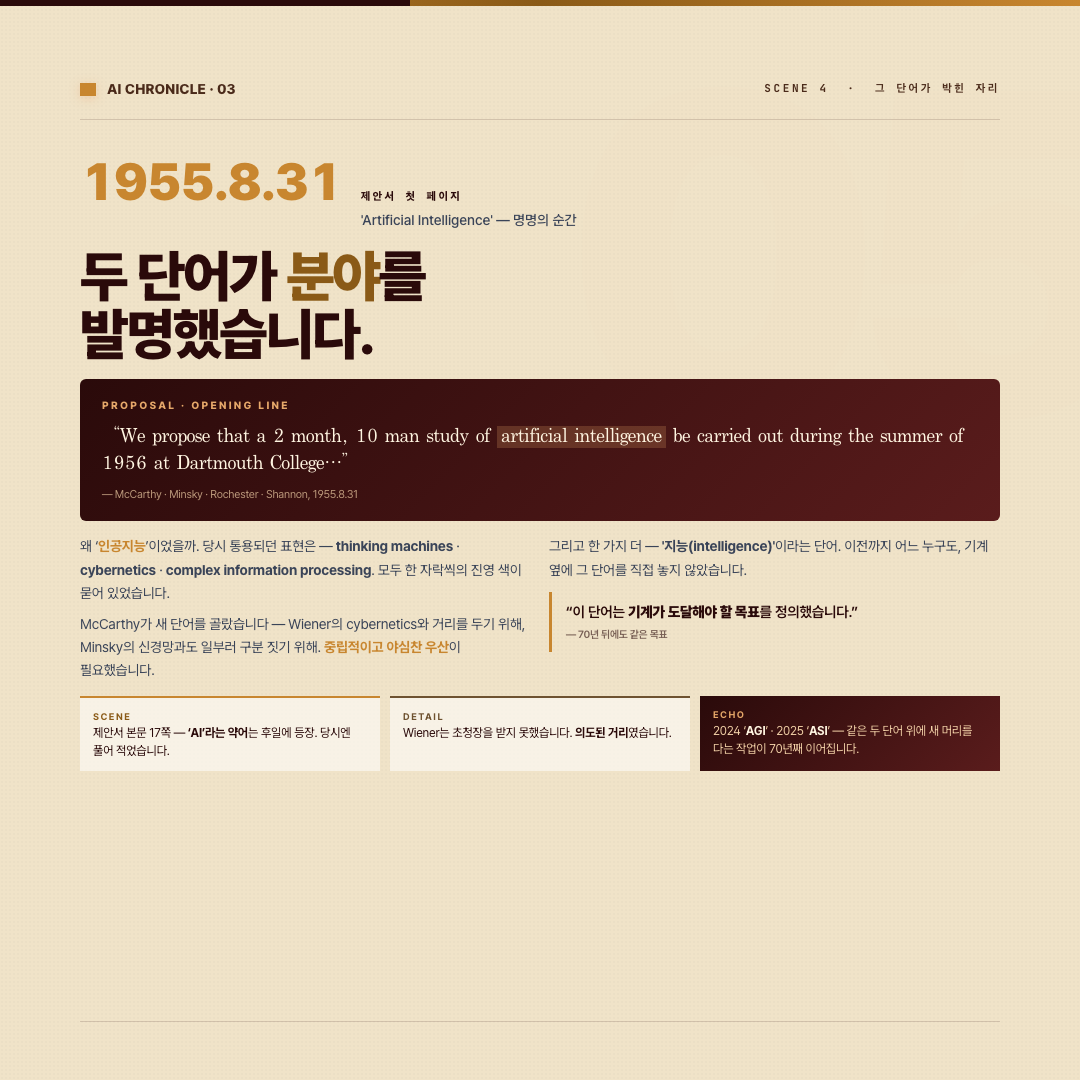
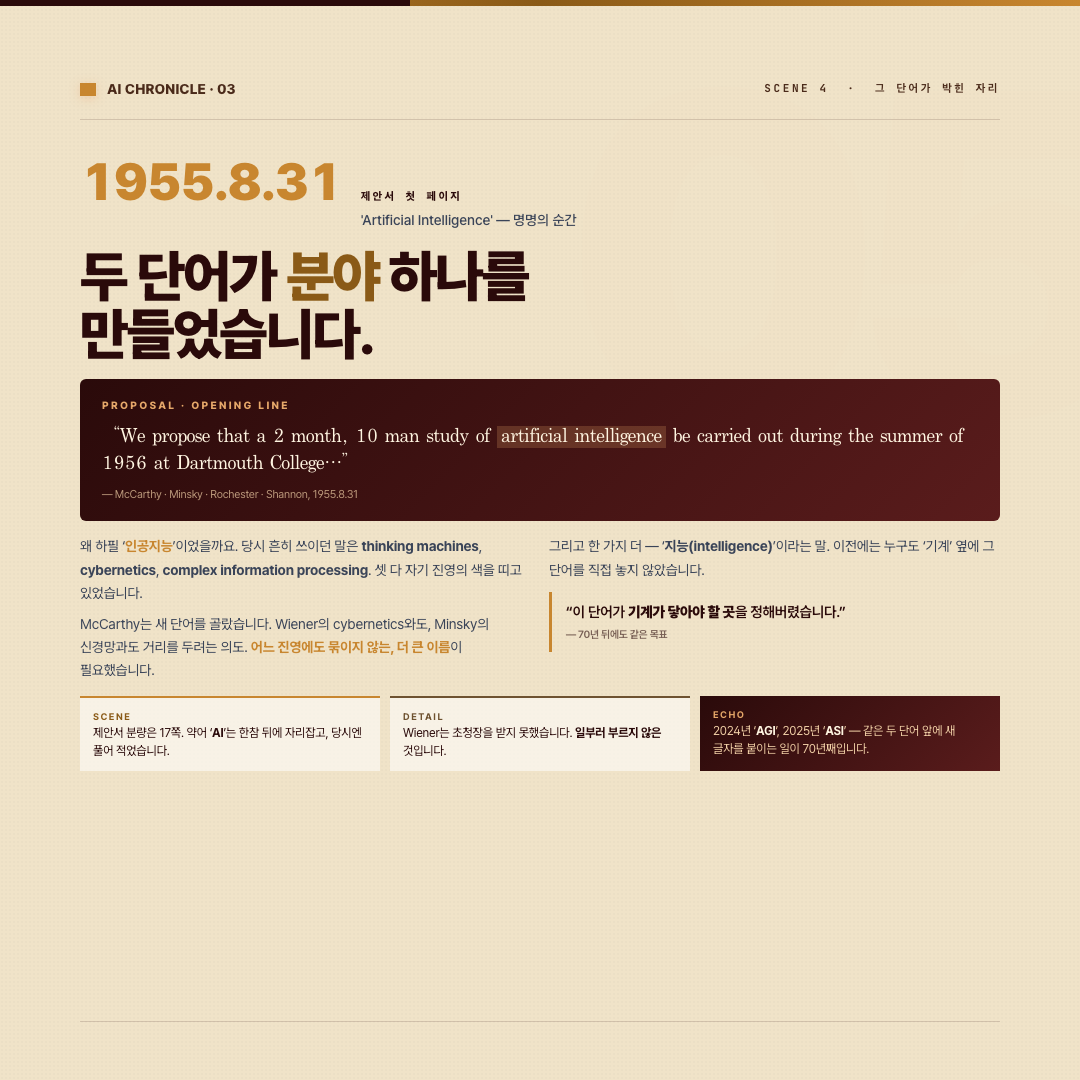
fix(chronicle 03): 본문 톤 다듬기 — 번역투·추상 한자어 제거, 자연스럽고 짧은 문장으로

diff --git a/chronicle-3-cards-dartmouth/04-organizers.html b/chronicle-3-cards-dartmouth/04-organizers.html
@@ -15,10 +15,10 @@
       <span class="year">1955 · 1956</span>
       <span class="label"><b>Four Organizers</b><span class="sub">McCarthy · Minsky · Rochester · Shannon</span></span>
     </div>
-    <h1 class="title sm">제안서엔 <em>네 사람</em>의<br />이름이 적혔습니다.</h1>
+    <h1 class="title sm">제안서에는 <em>네 사람</em>의<br />이름이 적혀 있습니다.</h1>
 
     <p class="body-sm" style="font-size:14px; line-height:1.6; margin-top:10px; color:var(--ink-soft);">
-      셋은 학계 — 그리고 한 사람은 IBM에서 왔습니다. 서로 다른 출신·다른 도구·다른 신념을 가진 네 사람이 이 한 여름을 위해 손을 잡았습니다.
+      셋은 학계 사람, 한 사람은 IBM에서 왔습니다. 출신도 도구도 신념도 달랐지만 — 한 여름을 위해 손을 잡았습니다.
     </p>
 
     <div style="margin-top:14px; display:grid; grid-template-columns:repeat(2, 1fr); gap:10px;">
@@ -26,28 +26,28 @@
         <div style="font-size:10px; letter-spacing:0.18em; color:#e6a86a; font-weight:800;">DARTMOUTH</div>
         <div style="font-size:18px; font-weight:800; color:#fff5e1; margin-top:4px;">John McCarthy</div>
         <div style="font-size:11.5px; color:#e6a86a; margin-top:2px;">28세 · 수학과 조교수</div>
-        <div style="font-size:12.5px; line-height:1.5; margin-top:6px;">제안서의 첫 저자. 워크숍의 <b style="color:#fff5e1;">호스트</b>이자 ‘<em style="color:#e6a86a;">Artificial Intelligence</em>’라는 단어를 박은 사람. 1958 LISP, 1961 time-sharing.</div>
+        <div style="font-size:12.5px; line-height:1.5; margin-top:6px;">제안서의 첫 저자. 워크숍의 <b style="color:#fff5e1;">호스트</b>이자 ‘<em style="color:#e6a86a;">인공지능</em>’이라는 말을 처음 쓴 사람. 1958년 LISP, 1961년 시분할 컴퓨팅.</div>
       </div>
 
       <div style="padding:14px 16px; background:linear-gradient(135deg, #5a1c1c, #2a0a0a); color:#f3d2a8; border-radius:6px;">
         <div style="font-size:10px; letter-spacing:0.18em; color:#e6a86a; font-weight:800;">HARVARD</div>
         <div style="font-size:18px; font-weight:800; color:#fff5e1; margin-top:4px;">Marvin Minsky</div>
         <div style="font-size:11.5px; color:#e6a86a; margin-top:2px;">29세 · 주니어 펠로우</div>
-        <div style="font-size:12.5px; line-height:1.5; margin-top:6px;">5년 전 SNARC를 만든 신경망 선구자. 워크숍 후 <b style="color:#fff5e1;">MIT AI Lab</b>을 세우고 30년간 분야의 <em style="color:#e6a86a;">중심</em>이 됩니다.</div>
+        <div style="font-size:12.5px; line-height:1.5; margin-top:6px;">5년 전 SNARC를 만든 신경망 선구자. 워크숍이 끝나자 <b style="color:#fff5e1;">MIT AI Lab</b>을 세우고, 이후 30년간 분야의 <em style="color:#e6a86a;">중심</em>에 섭니다.</div>
       </div>
 
       <div style="padding:14px 16px; background:rgba(255,255,255,0.6); border:1px solid var(--line-strong); border-radius:6px;">
         <div style="font-size:10px; letter-spacing:0.18em; color:var(--brand-deep); font-weight:800;">IBM</div>
         <div style="font-size:18px; font-weight:800; color:var(--navy); margin-top:4px;">Nathaniel Rochester</div>
         <div style="font-size:11.5px; color:var(--brand-deep); margin-top:2px;">37세 · IBM 701 수석 설계자</div>
-        <div style="font-size:12.5px; line-height:1.5; margin-top:6px; color:var(--ink-soft);">상업 컴퓨터의 첫 세대를 만든 <b>실무자</b>. 다트머스에 ‘<em>업계의 시선</em>’을 가져왔습니다. 워크숍에서 첫 신경망 시뮬레이션을 시연.</div>
+        <div style="font-size:12.5px; line-height:1.5; margin-top:6px; color:var(--ink-soft);">상업용 컴퓨터를 처음 만든 <b>현장 엔지니어</b>. 다트머스에 ‘<em>업계의 눈</em>’을 가져왔습니다. 워크숍에서 첫 신경망 시뮬레이션을 보여줍니다.</div>
       </div>
 
       <div style="padding:14px 16px; background:rgba(255,255,255,0.6); border:1px solid var(--line-strong); border-radius:6px;">
         <div style="font-size:10px; letter-spacing:0.18em; color:var(--brand-deep); font-weight:800;">BELL LABS</div>
         <div style="font-size:18px; font-weight:800; color:var(--navy); margin-top:4px;">Claude Shannon</div>
         <div style="font-size:11.5px; color:var(--brand-deep); margin-top:2px;">40세 · 정보이론의 아버지</div>
-        <div style="font-size:12.5px; line-height:1.5; margin-top:6px; color:var(--ink-soft);">가장 <b>스타급</b> 참여자. 8년 전 ‘비트’를 정의한 사람이 같은 자리에 앉았다는 것만으로 — 행사의 <em>무게</em>가 정해졌습니다.</div>
+        <div style="font-size:12.5px; line-height:1.5; margin-top:6px; color:var(--ink-soft);">참여자 중 가장 <b>유명한 사람</b>. 8년 전 ‘비트’를 정의한 그가 자리에 앉았다는 것만으로 행사의 <em>격</em>이 한층 올라갔습니다.</div>
       </div>
     </div>
 

diff --git a/chronicle-3-cards-dartmouth/05-naming.html b/chronicle-3-cards-dartmouth/05-naming.html
@@ -15,7 +15,7 @@
       <span class="year">1955.8.31</span>
       <span class="label"><b>제안서 첫 페이지</b><span class="sub">'Artificial Intelligence' — 명명의 순간</span></span>
     </div>
-    <h1 class="title sm">두 단어가 <em>분야</em>를<br />발명했습니다.</h1>
+    <h1 class="title sm">두 단어가 <em>분야</em> 하나를<br />만들었습니다.</h1>
 
     <div style="margin-top:14px; padding:18px 22px; background:linear-gradient(135deg, #2a0a0a 0%, #5a1c1c 100%); color:#f3d2a8; border-radius:6px;">
       <div style="font-size:10.5px; letter-spacing:0.22em; color:#e6a86a; font-weight:800;">PROPOSAL · OPENING LINE</div>
@@ -27,13 +27,13 @@
 
     <div class="split" style="grid-template-columns:1fr 1fr; gap:18px; margin-top:14px;">
       <div class="left">
-        <p class="body-sm" style="font-size:14px; line-height:1.65;">왜 ‘<em>인공지능</em>’이었을까. 당시 통용되던 표현은 — <b>thinking machines</b> · <b>cybernetics</b> · <b>complex information processing</b>. 모두 한 자락씩의 진영 색이 묻어 있었습니다.</p>
-        <p class="body-sm" style="font-size:14px; line-height:1.65; margin-top:8px;">McCarthy가 새 단어를 골랐습니다 — Wiener의 cybernetics와 거리를 두기 위해, Minsky의 신경망과도 일부러 구분 짓기 위해. <em>중립적이고 야심찬 우산</em>이 필요했습니다.</p>
+        <p class="body-sm" style="font-size:14px; line-height:1.65;">왜 하필 ‘<em>인공지능</em>’이었을까요. 당시 흔히 쓰이던 말은 <b>thinking machines</b>, <b>cybernetics</b>, <b>complex information processing</b>. 셋 다 자기 진영의 색을 띠고 있었습니다.</p>
+        <p class="body-sm" style="font-size:14px; line-height:1.65; margin-top:8px;">McCarthy는 새 단어를 골랐습니다. Wiener의 cybernetics와도, Minsky의 신경망과도 거리를 두려는 의도. <em>어느 진영에도 묶이지 않는, 더 큰 이름</em>이 필요했습니다.</p>
       </div>
       <div class="right">
-        <p class="body-sm" style="font-size:14px; line-height:1.65;">그리고 한 가지 더 — <b>'지능(intelligence)'</b>이라는 단어. 이전까지 어느 누구도, 기계 옆에 그 단어를 직접 놓지 않았습니다.</p>
+        <p class="body-sm" style="font-size:14px; line-height:1.65;">그리고 한 가지 더 — ‘<b>지능(intelligence)</b>’이라는 말. 이전에는 누구도 ‘기계’ 옆에 그 단어를 직접 놓지 않았습니다.</p>
         <div class="quote" style="margin-top:10px; font-size:14.5px; line-height:1.5; padding:9px 14px;">
-          “이 단어는 <b>기계가 도달해야 할 목표</b>를 정의했습니다.”
+          “이 단어가 <b>기계가 닿아야 할 곳</b>을 정해버렸습니다.”
           <div style="font-size:10.5px; margin-top:5px; opacity:0.6; font-style:normal;">— 70년 뒤에도 같은 목표</div>
         </div>
       </div>
@@ -42,15 +42,15 @@
     <div style="margin-top:14px; display:grid; grid-template-columns:repeat(3, 1fr); gap:10px;">
       <div style="padding:11px 13px; background:rgba(255,255,255,0.55); border-top:2px solid var(--brand);">
         <div style="font-size:9.5px; letter-spacing:1.5px; color:var(--brand-deep); font-weight:700;">SCENE</div>
-        <div style="font-size:12px; line-height:1.5; color:var(--ink);">제안서 본문 17쪽 — <b>‘AI’라는 약어</b>는 후일에 등장. 당시엔 풀어 적었습니다.</div>
+        <div style="font-size:12px; line-height:1.5; color:var(--ink);">제안서 분량은 17쪽. 약어 ‘<b>AI</b>’는 한참 뒤에 자리잡고, 당시엔 풀어 적었습니다.</div>
       </div>
       <div style="padding:11px 13px; background:rgba(255,255,255,0.55); border-top:2px solid var(--ink-mid);">
         <div style="font-size:9.5px; letter-spacing:1.5px; color:var(--ink-mid); font-weight:700;">DETAIL</div>
-        <div style="font-size:12px; line-height:1.5; color:var(--ink);">Wiener는 초청장을 받지 못했습니다. <b>의도된 거리</b>였습니다.</div>
+        <div style="font-size:12px; line-height:1.5; color:var(--ink);">Wiener는 초청장을 받지 못했습니다. <b>일부러 부르지 않은</b> 것입니다.</div>
       </div>
       <div style="padding:11px 13px; background:linear-gradient(135deg, #2a0a0a, #5a1c1c); color:#f3d2a8;">
         <div style="font-size:9.5px; letter-spacing:1.5px; color:#e6a86a; font-weight:700;">ECHO</div>
-        <div style="font-size:12px; line-height:1.5;">2024 ‘<b style="color:#fff5e1;">AGI</b>’ · 2025 ‘<b style="color:#fff5e1;">ASI</b>’ — 같은 두 단어 위에 새 머리를 다는 작업이 70년째 이어집니다.</div>
+        <div style="font-size:12px; line-height:1.5;">2024년 ‘<b style="color:#fff5e1;">AGI</b>’, 2025년 ‘<b style="color:#fff5e1;">ASI</b>’ — 같은 두 단어 앞에 새 글자를 붙이는 일이 70년째입니다.</div>
       </div>
     </div>
 

diff --git a/chronicle-3-cards-dartmouth/02-proposal.html b/chronicle-3-cards-dartmouth/02-proposal.html
@@ -15,7 +15,7 @@
       <span class="year">1955</span>
       <span class="label"><b>John McCarthy</b><span class="sub">한 통의 letter, 록펠러 재단으로</span></span>
     </div>
-    <h1 class="title sm">28살의 조교수가<br />한 여름을 <em>예약</em>합니다.</h1>
+    <h1 class="title sm">28살 조교수가<br />한 여름을 <em>예약</em>합니다.</h1>
 
     <div class="split" style="grid-template-columns:0.9fr 1.4fr; gap:22px; margin-top:14px;">
       <div class="left">
@@ -23,27 +23,27 @@
         <p style="font-size:10px; margin-top:4px; opacity:0.6; text-align:center;">John McCarthy (1927—2011)</p>
       </div>
       <div class="right">
-        <p class="body-sm" style="font-size:14px; line-height:1.65;">1955년 가을, 다트머스 대학 수학과의 28살 조교수 John McCarthy가 동료 셋과 함께 한 통의 제안서를 작성합니다. 받는 사람은 록펠러 재단. 부탁은 — <em>두 달치 연구비 $13,500</em>.</p>
+        <p class="body-sm" style="font-size:14px; line-height:1.65;">1955년 가을. 다트머스 대학 수학과의 28살 조교수 John McCarthy가 동료 셋과 함께 제안서를 씁니다. 받는 곳은 록펠러 재단. 요청한 돈은 두 달치 연구비 <b>$13,500</b>.</p>
         <div class="quote" style="margin-top:12px; font-size:15.5px; line-height:1.55; padding:10px 16px;">
-          “학습이나 지능의 다른 모든 측면이 정밀히 기술될 수 있어, <b>기계가 그것을 흉내내도록 만들 수 있다</b>는 추측 위에서 진행하기를 제안합니다.”
-          <div style="font-size:11px; margin-top:5px; opacity:0.6; font-style:normal;">— A Proposal for the Dartmouth Summer Research Project on Artificial Intelligence (1955)</div>
+          “학습이나 지능의 모든 면을 충분히 정확히 적을 수만 있다면, <b>기계가 그것을 따라할 수 있다</b>고 봅니다. 이 가정 아래 연구를 진행하려 합니다.”
+          <div style="font-size:11px; margin-top:5px; opacity:0.6; font-style:normal;">— 다트머스 여름 연구 제안서, 1955</div>
         </div>
-        <p class="body-sm" style="font-size:14px; line-height:1.65; margin-top:10px;">두 달이면 충분하다고 적었습니다. 신중하게 선택된 10명만 모이면, 한 여름에 <em>큰 진전</em>을 볼 거라고.</p>
+        <p class="body-sm" style="font-size:14px; line-height:1.65; margin-top:10px;">두 달이면 된다고 썼습니다. 잘 고른 10명만 모이면 한 여름에 <em>큰 진전</em>이 있을 거라고.</p>
       </div>
     </div>
 
     <div style="margin-top:14px; display:grid; grid-template-columns:repeat(3, 1fr); gap:10px;">
       <div style="padding:11px 13px; background:rgba(255,255,255,0.55); border-top:2px solid var(--brand);">
         <div style="font-size:9.5px; letter-spacing:1.5px; color:var(--brand-deep); font-weight:700;">SCENE</div>
-        <div style="font-size:12px; line-height:1.5; color:var(--ink);">예산 $13,500 — 1955년 화폐로, 오늘날 가치로 약 <b>$160,000</b>.</div>
+        <div style="font-size:12px; line-height:1.5; color:var(--ink);">예산 $13,500 — 지금 돈으로 약 <b>$160,000</b> 수준.</div>
       </div>
       <div style="padding:11px 13px; background:rgba(255,255,255,0.55); border-top:2px solid var(--ink-mid);">
         <div style="font-size:9.5px; letter-spacing:1.5px; color:var(--ink-mid); font-weight:700;">DETAIL</div>
-        <div style="font-size:12px; line-height:1.5; color:var(--ink);">제안서 첫 페이지 한 단어 — <em>“Artificial Intelligence”</em>. 이전엔 ‘<b>thinking machines</b>’ 같은 표현뿐이었습니다.</div>
+        <div style="font-size:12px; line-height:1.5; color:var(--ink);">이전까지는 ‘<b>thinking machines</b>’ 같은 표현뿐이었습니다. 제안서 첫 줄에서 처음으로 ‘인공지능’이라 적힙니다.</div>
       </div>
       <div style="padding:11px 13px; background:linear-gradient(135deg, #2a0a0a, #5a1c1c); color:#f3d2a8;">
         <div style="font-size:9.5px; letter-spacing:1.5px; color:#e6a86a; font-weight:700;">ECHO</div>
-        <div style="font-size:12px; line-height:1.5;">McCarthy는 그날 이후 <b style="color:#fff5e1;">LISP</b>(1958)·<b style="color:#fff5e1;">time-sharing</b>의 아버지로 평생 AI를 짊어집니다.</div>
+        <div style="font-size:12px; line-height:1.5;">McCarthy는 이후 <b style="color:#fff5e1;">LISP</b>(1958)와 <b style="color:#fff5e1;">시분할 컴퓨팅</b>을 만듭니다. 평생 AI에 매달린 사람.</div>
       </div>
     </div>
 

diff --git a/chronicle-3-cards-dartmouth/06-logic-theorist.html b/chronicle-3-cards-dartmouth/06-logic-theorist.html
@@ -19,11 +19,11 @@
 
     <div class="split" style="grid-template-columns:1.1fr 1fr; gap:20px; margin-top:14px;">
       <div class="left">
-        <p class="body-sm" style="font-size:14px; line-height:1.65;">대부분의 참여자가 <em>아이디어와 칠판</em>을 들고 왔다면, RAND에서 온 두 사람은 — <b>실제로 작동하는 프로그램</b>을 들고 왔습니다. Allen Newell과 Herbert Simon. 그리고 프로그래머 Cliff Shaw.</p>
-        <p class="body-sm" style="font-size:14px; line-height:1.65; margin-top:8px;">이름은 <b>Logic Theorist</b>. 작동 무대는 RAND의 JOHNNIAC 컴퓨터. 그날 밤, 다트머스의 한 방에서 <em>Russell·Whitehead의 『Principia Mathematica』</em>의 정리들을 — 기계가 스스로 증명해 보였습니다.</p>
+        <p class="body-sm" style="font-size:14px; line-height:1.65;">다른 참여자들이 아이디어와 칠판을 들고 왔다면, RAND에서 온 두 사람은 — <b>실제로 돌아가는 프로그램</b>을 들고 왔습니다. Allen Newell과 Herbert Simon, 그리고 프로그래머 Cliff Shaw.</p>
+        <p class="body-sm" style="font-size:14px; line-height:1.65; margin-top:8px;">이름은 <b>Logic Theorist</b>. RAND의 JOHNNIAC 컴퓨터에서 돌아갑니다. 그날 다트머스의 방 안에서 — <em>Russell·Whitehead의 『Principia Mathematica』</em>의 정리들을 기계가 스스로 증명해 보였습니다.</p>
         <div style="margin-top:10px; padding:9px 12px; background:rgba(200,134,47,0.10); border-left:3px solid var(--brand);">
           <div style="font-size:9.5px; letter-spacing:1.5px; color:var(--brand-deep); font-weight:700;">기록 · 정리 2.85</div>
-          <div style="font-size:12px; line-height:1.5; color:var(--ink-soft);">Logic Theorist의 한 증명은 <em>Whitehead·Russell의 원본보다 우아</em>했습니다. Simon은 자랑스러워 학술지에 보냈지만 — Russell만 흥미로워 했고, 학술지는 ‘<b>저자 중 한 명이 사람이 아니라서</b>’ 게재를 거절합니다.</div>
+          <div style="font-size:12px; line-height:1.5; color:var(--ink-soft);">Logic Theorist의 한 증명은 <em>원본보다 더 깔끔</em>했습니다. Simon은 자랑스레 학술지에 논문을 보냈지만 — Russell만 흥미로워했고, 학술지는 ‘<b>공저자 중 하나가 사람이 아니라서</b>’ 실어주지 않았습니다.</div>
         </div>
       </div>
       <div class="right">
@@ -33,7 +33,7 @@
     </div>
 
     <p class="body-sm" style="font-size:14px; line-height:1.6; margin-top:12px; color:var(--ink-soft);">
-      Logic Theorist는 ‘<em>인공지능</em>’이라는 단어가 정해지기 직전에 <b>그 단어의 첫 증거</b>가 되었습니다. 그러나 워크숍의 다른 사람들은 — <em>충분히 놀라지 않았습니다</em>.
+      Logic Theorist는 ‘<em>인공지능</em>’이라는 말이 자리잡기 직전에 <b>그 말이 가능하다는 첫 증거</b>가 됐습니다. 하지만 워크숍의 다른 참여자들은 — <em>생각만큼 놀라지 않았습니다</em>.
     </p>
 
     <div style="margin-top:14px; display:grid; grid-template-columns:repeat(3, 1fr); gap:10px;">
@@ -43,11 +43,11 @@
       </div>
       <div style="padding:11px 13px; background:rgba(255,255,255,0.55); border-top:2px solid var(--ink-mid);">
         <div style="font-size:9.5px; letter-spacing:1.5px; color:var(--ink-mid); font-weight:700;">DETAIL</div>
-        <div style="font-size:12px; line-height:1.5; color:var(--ink);">Newell·Simon은 — 다트머스에 <em>초대받은 적이 없었습니다</em>. McCarthy가 도중에 합류시켰습니다.</div>
+        <div style="font-size:12px; line-height:1.5; color:var(--ink);">Newell·Simon은 사실 처음 초대 명단에 없었습니다. McCarthy가 도중에 불렀습니다.</div>
       </div>
       <div style="padding:11px 13px; background:linear-gradient(135deg, #2a0a0a, #5a1c1c); color:#f3d2a8;">
         <div style="font-size:9.5px; letter-spacing:1.5px; color:#e6a86a; font-weight:700;">ECHO</div>
-        <div style="font-size:12px; line-height:1.5;">두 사람은 곧 <b style="color:#fff5e1;">CMU AI 학파</b>(symbolic)를 세웁니다 — Minsky의 MIT(connectionist)와 60년 라이벌.</div>
+        <div style="font-size:12px; line-height:1.5;">두 사람은 곧 CMU에 <b style="color:#fff5e1;">기호주의 AI 학파</b>를 세웁니다. Minsky의 MIT 신경망 학파와 60년의 라이벌.</div>
       </div>
     </div>
 

diff --git a/chronicle-3-cards-dartmouth/03-campus.html b/chronicle-3-cards-dartmouth/03-campus.html
@@ -15,20 +15,20 @@
       <span class="year">1956 여름</span>
       <span class="label"><b>Dartmouth College</b><span class="sub">8주, 수학과 2층 한 방</span></span>
     </div>
-    <h1 class="title sm">8주가 <em>흩어진 실</em>들을<br />한 자리에 모았습니다.</h1>
+    <h1 class="title sm">8주가 <em>따로 가던</em><br />연구를 한자리에 모았습니다.</h1>
 
     <div class="split" style="grid-template-columns:1.1fr 1fr; gap:22px; margin-top:14px;">
       <div class="left">
-        <p class="body-sm" style="font-size:14px; line-height:1.65;">1956년 6월, 뉴햄프셔의 작은 대학 도시 하노버. 다트머스 수학과 건물 2층의 한 방이 두 달 동안 ‘<em>인공지능 워크숍</em>’의 본부가 됩니다.</p>
-        <p class="body-sm" style="font-size:14px; line-height:1.65; margin-top:8px;">참여자는 시기마다 들고 났습니다 — 일주일만 머문 사람, 두 달 내내 있던 사람. 정해진 강의도 발표 일정도 없었습니다. 칠판과 분필, 그리고 <b>긴 토론</b>이 전부였습니다.</p>
+        <p class="body-sm" style="font-size:14px; line-height:1.65;">1956년 6월. 뉴햄프셔의 작은 대학 도시 하노버. 다트머스 수학과 건물 2층의 방 하나가 두 달 동안 ‘<em>인공지능 워크숍</em>’의 본부가 됩니다.</p>
+        <p class="body-sm" style="font-size:14px; line-height:1.65; margin-top:8px;">사람들은 일주일만 들렀다 가기도 하고, 두 달 내내 머물기도 했습니다. 정해진 강의도, 발표 일정도 없었습니다. 칠판과 분필, 그리고 <b>긴 토론</b>이 전부였습니다.</p>
         <div style="margin-top:10px; padding:9px 12px; background:rgba(42,10,10,0.07); border-left:3px solid var(--ink-soft);">
           <div style="font-size:9.5px; letter-spacing:1.5px; color:var(--ink-soft); font-weight:700;">분위기 · 후일담</div>
-          <div style="font-size:12px; line-height:1.5;">McCarthy의 회상: “모두가 자기 연구만 자랑했고 — <b>아무도 협력하지 않았다</b>.” 8주의 결산은 합의가 아니라 <em>다양성의 확인</em>이었습니다.</div>
+          <div style="font-size:12px; line-height:1.5;">훗날 McCarthy의 회고: “모두 자기 연구만 자랑했고, <b>아무도 협력하지 않았다</b>.” 8주가 남긴 건 합의가 아니라 <em>서로 다름의 확인</em>이었습니다.</div>
         </div>
       </div>
       <div class="right">
         <img src="../images/dartmouth-hall.jpg" style="width:100%; height:300px; object-fit:cover; border-radius:6px; filter:sepia(0.12);" alt="Dartmouth Hall" />
-        <p style="font-size:10px; margin-top:4px; opacity:0.6; text-align:center;">Dartmouth College · 본 워크숍 장소(수학과 건물)</p>
+        <p style="font-size:10px; margin-top:4px; opacity:0.6; text-align:center;">Dartmouth College · 워크숍이 열린 캠퍼스</p>
       </div>
     </div>
 
@@ -43,7 +43,7 @@
       </div>
       <div style="padding:11px 13px; background:linear-gradient(135deg, #2a0a0a, #5a1c1c); color:#f3d2a8;">
         <div style="font-size:9.5px; letter-spacing:1.5px; color:#e6a86a; font-weight:700;">ECHO</div>
-        <div style="font-size:12px; line-height:1.5;">대신 남은 것은 — <b style="color:#fff5e1;">단어 하나, 그리고 인맥의 그물</b>. 그게 50년의 분야를 만듭니다.</div>
+        <div style="font-size:12px; line-height:1.5;">대신 남은 건 <b style="color:#fff5e1;">단어 하나와 사람들의 연결</b>. 그게 50년 동안 분야를 끌고 갑니다.</div>
       </div>
     </div>
 

diff --git a/chronicle-3-cards-dartmouth/01-cover.html b/chronicle-3-cards-dartmouth/01-cover.html
@@ -19,8 +19,8 @@
     <div class="kicker" style="margin-top:44px;">PROPOSAL · CAMPUS · ORGANIZERS · NAMING · DEMO</div>
 
     <p class="hello">
-      흩어진 <em>네 줄기</em>가 있었습니다.<br />
-      한 여름의 모임이 — 그것에 <em>이름</em>을 답니다.
+      따로 가던 <em>네 연구</em>가 있었습니다.<br />
+      한 여름의 모임이 거기에 <em>이름</em>을 붙입니다.
     </p>
 
     <h1 class="hero">
@@ -28,8 +28,8 @@
     </h1>
 
     <p class="lead">
-      1955년 가을, 28살의 McCarthy가 록펠러 재단에 한 통의 제안서를 보냅니다 —<br />
-      “1956년 여름, 다트머스에서 <em>인공지능</em>을 함께 연구합시다.”
+      1955년 가을, 28살 McCarthy가 록펠러 재단에 편지 한 통을 보냅니다.<br />
+      “1956년 여름, 다트머스로 모여 <em>인공지능</em>을 함께 연구합시다.”
     </p>
 
     <div class="timeline">
@@ -43,15 +43,15 @@
     <div style="margin-top:24px; display:grid; grid-template-columns:1fr 1fr 1fr; gap:14px;">
       <div style="padding:14px 16px; border-top:3px solid var(--navy); background:linear-gradient(180deg, rgba(255,255,255,0.7), rgba(255,255,255,0.3));">
         <div style="font-family:'JetBrains Mono', monospace; font-size:10px; letter-spacing:0.2em; color:var(--navy); font-weight:700;">제안</div>
-        <div style="font-size:13.5px; font-weight:700; color:var(--navy); margin-top:4px;">Rockefeller에<br />보낸 한 통의 letter</div>
+        <div style="font-size:13.5px; font-weight:700; color:var(--navy); margin-top:4px;">록펠러 재단으로<br />보낸 편지 한 통</div>
       </div>
       <div style="padding:14px 16px; border-top:3px solid var(--brand); background:linear-gradient(180deg, var(--brand-soft), rgba(255,255,255,0.3));">
         <div style="font-family:'JetBrains Mono', monospace; font-size:10px; letter-spacing:0.2em; color:var(--brand); font-weight:700;">명명</div>
-        <div style="font-size:13.5px; font-weight:700; color:var(--navy); margin-top:4px;">‘Artificial Intelligence’<br />그 단어가 처음 적힙니다</div>
+        <div style="font-size:13.5px; font-weight:700; color:var(--navy); margin-top:4px;">‘인공지능’이라는<br />말이 처음 등장합니다</div>
       </div>
       <div style="padding:14px 16px; border-top:3px solid var(--navy); background:linear-gradient(180deg, rgba(255,255,255,0.7), rgba(255,255,255,0.3));">
         <div style="font-family:'JetBrains Mono', monospace; font-size:10px; letter-spacing:0.2em; color:var(--navy); font-weight:700;">시연</div>
-        <div style="font-size:13.5px; font-weight:700; color:var(--navy); margin-top:4px;">Newell·Simon이<br />Logic Theorist를 들고</div>
+        <div style="font-size:13.5px; font-weight:700; color:var(--navy); margin-top:4px;">Newell·Simon이<br />Logic Theorist를 들고 옵니다</div>
       </div>
     </div>
 

diff --git a/chronicle-3-cards-dartmouth/07-bridge.html b/chronicle-3-cards-dartmouth/07-bridge.html
@@ -22,17 +22,17 @@
 
     <h1 class="ask">
       <em>두 달</em>은 짧았고,<br />
-      <em>한 단어</em>는 길게 남았습니다.
+      <em>한 단어</em>는 오래 남았습니다.
     </h1>
 
     <p class="closing">
-      합의된 결론도, 발표 논문집도 없었습니다. 그러나 다트머스의 여름은 한 가지를 분명히 했습니다 — 이제부터 이 일은 <b>‘인공지능’</b>이라 불립니다. 그리고 이 일을 함께할 <em>사람들의 그물</em>이 그 자리에 묶였습니다.
+      합의된 결론도, 정식 논문집도 없었습니다. 하지만 다트머스의 여름은 한 가지를 분명히 했습니다 — 이제부터 이 일은 <b>‘인공지능’</b>이라 불립니다. 그리고 이 일을 함께할 <em>사람들의 연결</em>이 그곳에서 묶였습니다.
     </p>
     <p class="closing" style="margin-top:12px;">
-      McCarthy는 LISP로, Minsky는 MIT AI Lab으로, Newell·Simon은 CMU로 — 워크숍이 끝나자마자 네 갈래의 발이 출발선을 떴습니다.
+      McCarthy는 LISP로, Minsky는 MIT AI Lab으로, Newell·Simon은 CMU로 — 워크숍이 끝나자마자 네 갈래의 발이 출발선을 떠납니다.
     </p>
     <p class="closing" style="margin-top:14px; padding:14px 18px; background:linear-gradient(135deg, #2a0a0a 0%, #5a1c1c 100%); color:#f3d2a8; border-radius:6px;">
-      그러나 워크숍이 미처 다루지 못한 한 가지가 있었습니다 — <em style="color:#e6a86a;">학습</em>. 1957년, 코넬의 한 심리학자가 ‘<em style="color:#e6a86a;">퍼셉트론</em>’이라는 이름의 <b style="color:#fff5e1;">학습하는 기계</b>를 발표합니다. 다트머스가 약속한 미래의, 첫 시연.
+      다만 워크숍이 미처 다루지 못한 한 가지가 있었습니다 — <em style="color:#e6a86a;">학습</em>. 1957년, 코넬의 한 심리학자가 ‘<em style="color:#e6a86a;">퍼셉트론</em>’이라는 이름의 <b style="color:#fff5e1;">스스로 배우는 기계</b>를 발표합니다. 다트머스가 약속한 미래의 첫 모습.
     </p>
     <p class="closing" style="margin-top:14px; font-size:18px; color:var(--navy); font-weight:600;">
       다음 호 — <b>Chronicle 04 · 퍼셉트론의 약속</b>. Rosenblatt가 첫 환호를 받습니다.
